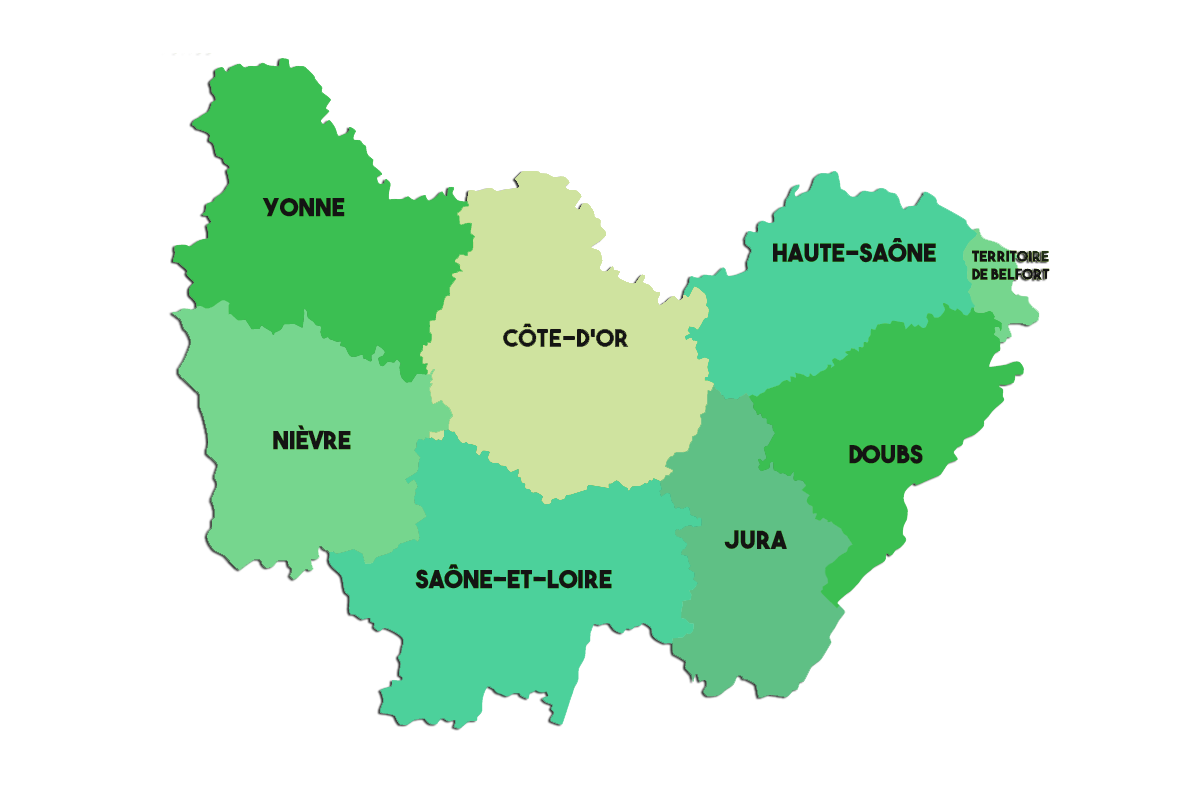
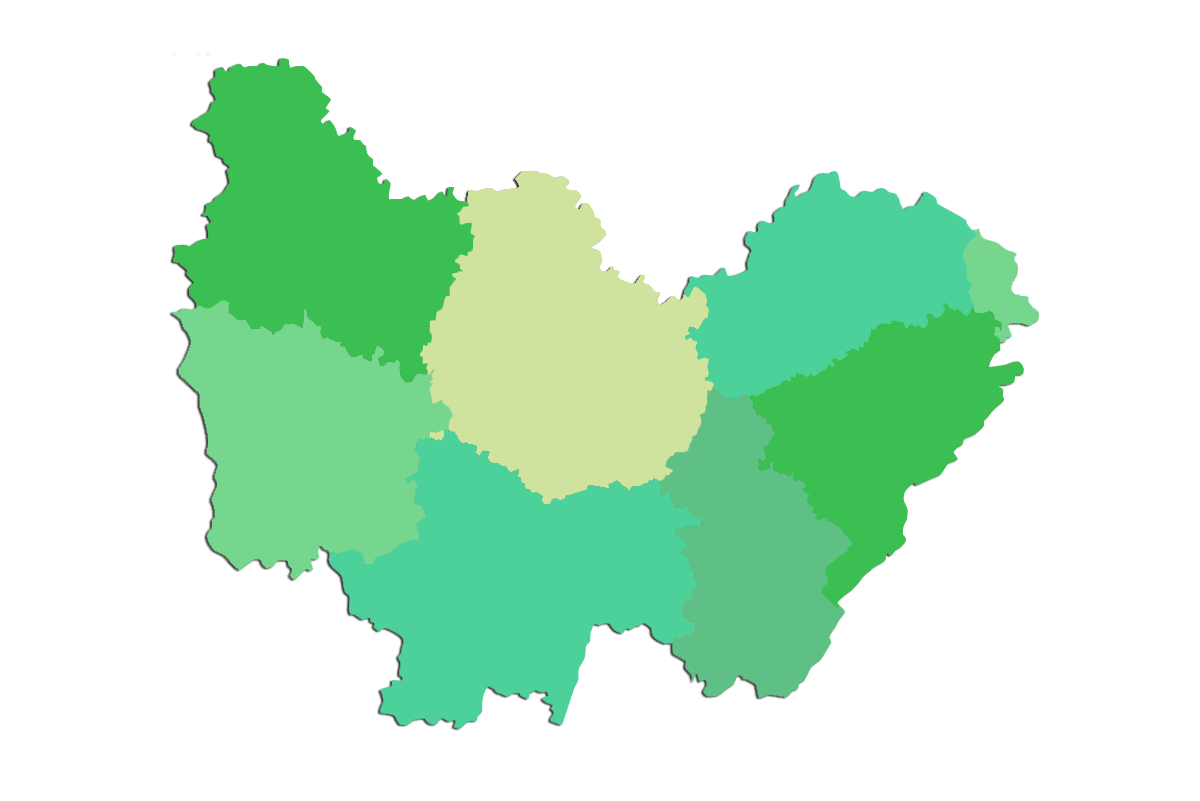
major changes

diff --git a/guide_naturel/front/index.html b/guide_naturel/front/index.html
@@ -19,83 +19,57 @@ BOURGOGNE-FRANCHE-COMTÉ </h2></div>
   <button class = "AjoutDonnees">AJOUT DONNÉES</button>
 </div>
 <div align = CENTER class = "CarteBFC">
-  <div class="image-container"> <!-- Ajout du container pour l'image -->
+  <div class="image-container">
     <img src = "ressources/carte_bfc.png" alt = "Departement BFC" usemap = '#departements_bfc' class = 'BFCcarte'>
-    <img src="ressources/dep/cote_dor.png" alt="Côte-d'Or" class="overlay-image">
+    <img src="" alt="" class="overlay-image">
     </div>
   <map name = 'departements_bfc'>
     <area
             shape="poly"
             coords="423,375,476,251,466,199,391,195,350,128,299,63,221,61,192,117,220,181,177,261,198,305,277,334,307,315,325,345,376,359"
-            href="#"
-            target="_blank"
-            alt="Yonne" class="departement-area yonne"> <!-- Ajout de classes pour cibler CSS -->
+            href="departements/yonne.html"
+            alt="Yonne" class="departement-area yonne">
     <area
             shape="poly"
             coords="306,308,301,323,256,329,227,303,176,310,191,338,178,371,199,390,209,445,215,503,208,540,243,574,289,559,294,582,323,553,357,551,369,566,418,537,414,477,417,439,450,427,448,405,430,402,432,371,410,381,398,363,351,352"
-            href="#"
-            target="_blank"
-            alt="Nièvre" class="departement-area nievre">
+            href="departements/nievre.html"
+            alt="Nievre" class="departement-area nievre">
     <area
             shape="poly"
             coords="662,294,605,265,605,233,579,191,525,166,519,187,469,188,470,252,457,258,418,353,449,413,433,434,456,435,546,502,618,481,667,476,698,437,711,370,689,337,709,313,697,292"
-            href="#"
-            target="_blank"
-            alt="Côte-d'Or"
-            class="departement-area cote-dor">
+            href="departements/cote_dor.html"
+            alt="Cote_dor"
+            class="departement-area cote_dor">
     <area
             shape="poly"
             coords="539,491,523,479,499,460,470,434,419,441,416,494,414,540,368,561,332,553,353,617,404,642,379,713,467,731,487,690,545,697,561,727,598,621,645,630,671,649,699,634,686,606,699,585,683,534,705,526,660,479,613,483,549,504"
-            href="#"
-            target="_blank"
-            alt="Saône-et-Loire" class="departement-area saone-et-loire">
+            href="departements/saone_et_loire.html"
+            alt="Saone_et_Loire" class="departement-area saone_et_loire">
     <area
             shape="poly"
             coords="905,209,889,190,854,198,832,171,746,235,747,279,682,286,705,294,708,315,687,336,711,390,749,403,777,387,803,380,821,369,855,353,877,327,915,330,946,312,974,311,962,251,980,234,926,191"
-            href="#"
-            target="_blank"
-            alt="Haute-Saône" class="departement-area haute-saone">
+            href="departements/haute_saone.html"
+            alt="Haute_Saone" class="departement-area haute_saone">
     <area
             shape="poly"
             coords="949,305,925,328,882,318,856,351,800,378,764,393,753,398,774,432,762,467,803,477,819,513,849,542,821,576,836,607,906,542,911,488,981,432,999,401,1019,363,990,364,993,336,1000,322,975,313"
-            href="#"
-            target="_blank"
+            href="departements/doubs.html"
             alt="Doubs" class="departement-area doubs">
     <area
             shape="poly"
             coords="764,469,774,431,745,396,713,388,698,432,669,459,661,483,702,522,677,533,698,577,683,616,696,623,675,645,710,700,741,676,759,693,791,698,832,641,842,611,822,591,830,566,850,551,841,529,821,520,806,481,781,469"
-            href="#" target="_blank"
+            href="departements/jura.html"
             alt="Jura" class="departement-area jura">
     <area
             shape="poly"
             coords="1015,289,1019,271,1016,251,978,231,964,258,971,286,978,307,999,324,993,339,1003,345,1013,335,1013,323,1033,324,1039,314,1032,294"
-            href="#"
-            target="_blank"
-            alt="Territoire de Belfort" class="departement-area territoire-de-belfort">
+            href="departements/belfort.html"
+            alt="Territoire_de_Belfort" class="departement-area territoire_de_belfort">
   </map>
 
 </div>
 
-<script>
-  document.addEventListener('DOMContentLoaded', function() {
-    const coteDorArea = document.querySelector('area.cote-dor'); // Sélectionne l'area Côte-d'Or par sa classe
-    const overlayImage = document.querySelector('.overlay-image'); // Sélectionne l'image de superposition
-
-    if (coteDorArea && overlayImage) { // Vérifie que les éléments existent bien
-      coteDorArea.addEventListener('mouseover', function() {
-        overlayImage.style.opacity = 1; // Affiche l'image quand la souris est sur l'area
-      });
-
-      coteDorArea.addEventListener('mouseout', function() {
-        overlayImage.style.opacity = 0; // Cache l'image quand la souris quitte l'area
-      });
-    } else {
-      console.error("Erreur : Element(s) non trouvé(s) (area.cote-dor ou .overlay-image). Vérifiez vos sélecteurs.");
-    }
-  });
-</script>
-</body>
-</html>
+<script src="script.js"></script>
 
 </body>
 </html>

diff --git a/guide_naturel/front/index.css b/guide_naturel/front/index.css
@@ -1,7 +1,5 @@
 body {
-  background:
-    url(ressources/foret2.png) center / cover no-repeat,
-    linear-gradient(to bottom, white, #8ebd93);
+  background: url(ressources/foret2.png) center / cover no-repeat, linear-gradient(to bottom, white, #8ebd93);
   background-attachment: fixed;
   min-height: 100vh;
   margin: 0;
@@ -39,7 +37,7 @@ body {
 
 .BFCcarte {
   display: block;
-  width: 100%; /* Ajuste selon tes besoins */
+  width: 100%;
 }
 
 .overlay-image {
@@ -48,13 +46,9 @@ body {
   left: 0;
   width: 100%;
   height: 100%;
-  opacity: 1; /* Cachée par défaut */
   pointer-events: none;
-  transition: opacity 0.3s ease-in-out;
-  z-index: 10; /* Assure que l'image apparaisse bien au-dessus */
-}
-
-/* Affichage de l'image Côte-d'Or au survol
-.image-container:hover .overlay-image {
   opacity: 0;
-}*/
+  transition: opacity 0.3s ease-in-out;
+  z-index: 10;
+
+}

diff --git a/guide_naturel/front/script.js b/guide_naturel/front/script.js
@@ -1,0 +1,22 @@
+document.addEventListener('DOMContentLoaded', function() {
+    const departementAreas = document.querySelectorAll('area.departement-area');
+    const overlayImage = document.querySelector('.overlay-image');
+
+    if (overlayImage) {
+        departementAreas.forEach(area => {
+            const departementName = area.alt.toLowerCase();
+            const overlayImageURL = `ressources/dep/${departementName}.png`;
+
+            area.addEventListener('mouseenter', function() {
+                overlayImage.src = overlayImageURL;
+                overlayImage.style.opacity = 1;
+            });
+
+            area.addEventListener('mouseleave', function() {
+                overlayImage.style.opacity = 0;
+            });
+        });
+    } else {
+        console.error("Erreur : Élément .overlay-image non trouvé.");
+    }
+});

diff --git a/guide_naturel/front/departements/yonne.html b/guide_naturel/front/departements/yonne.html
@@ -1,0 +1,10 @@
+<!DOCTYPE html>
+<html lang="en">
+<head>
+    <meta charset="UTF-8">
+    <title>Yonne</title>
+</head>
+<body>
+Pas grand chose à dire dessus...
+</body>
+</html>

diff --git a/guide_naturel/front/departements/doubs.html b/guide_naturel/front/departements/doubs.html
@@ -1,0 +1,10 @@
+<!DOCTYPE html>
+<html lang="en">
+<head>
+    <meta charset="UTF-8">
+    <title>Title</title>
+</head>
+<body>
+Le sang de Mathis
+</body>
+</html>

diff --git a/guide_naturel/front/departements/saone_et_loire.html b/guide_naturel/front/departements/saone_et_loire.html
@@ -1,0 +1,10 @@
+<!DOCTYPE html>
+<html lang="en">
+<head>
+    <meta charset="UTF-8">
+    <title>Title</title>
+</head>
+<body>
+Saône-Et-Loire
+</body>
+</html>

diff --git a/guide_naturel/front/departements/haute_saone.html b/guide_naturel/front/departements/haute_saone.html
@@ -1,0 +1,10 @@
+<!DOCTYPE html>
+<html lang="en">
+<head>
+    <meta charset="UTF-8">
+    <title>Title</title>
+</head>
+<body>
+Haute-Saône
+</body>
+</html>

diff --git a/guide_naturel/front/departements/belfort.html b/guide_naturel/front/departements/belfort.html
@@ -1,0 +1,10 @@
+<!DOCTYPE html>
+<html lang="en">
+<head>
+    <meta charset="UTF-8">
+    <title>Title</title>
+</head>
+<body>
+Belfort
+</body>
+</html>

diff --git a/guide_naturel/front/departements/cote_dor.html b/guide_naturel/front/departements/cote_dor.html
@@ -1,0 +1,10 @@
+<!DOCTYPE html>
+<html lang="en">
+<head>
+    <meta charset="UTF-8">
+    <title>Title</title>
+</head>
+<body>
+Le sang
+</body>
+</html>

diff --git a/guide_naturel/front/departements/nievre.html b/guide_naturel/front/departements/nievre.html
@@ -1,0 +1,10 @@
+<!DOCTYPE html>
+<html lang="en">
+<head>
+    <meta charset="UTF-8">
+    <title>Title</title>
+</head>
+<body>
+Nièvre
+</body>
+</html>

diff --git a/guide_naturel/front/departements/jura.html b/guide_naturel/front/departements/jura.html
@@ -1,0 +1,10 @@
+<!DOCTYPE html>
+<html lang="en">
+<head>
+    <meta charset="UTF-8">
+    <title>Title</title>
+</head>
+<body>
+Jura
+</body>
+</html>
